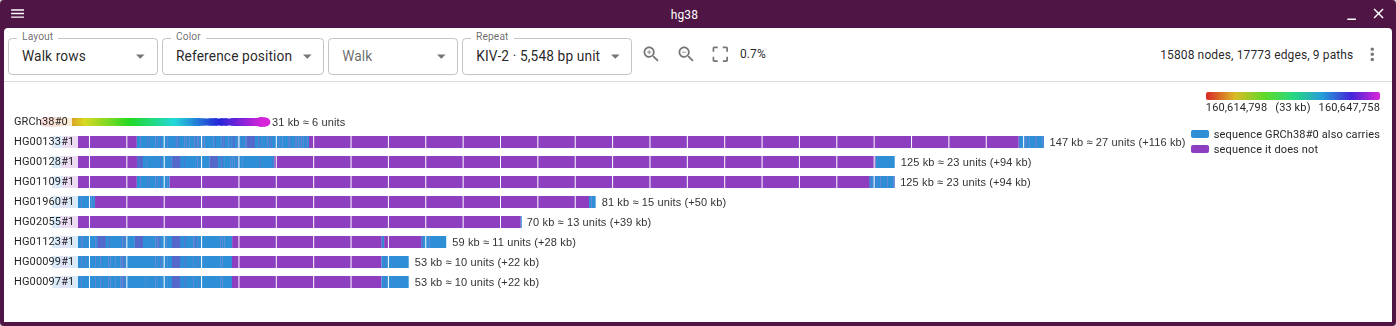
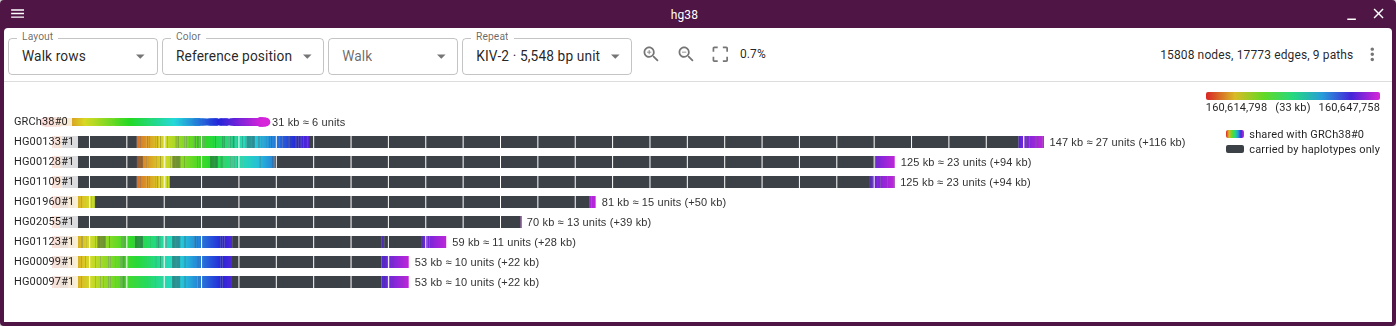
Walk rows follow the reference-position ramp
Under the reference-position scheme, sequence a walk shares with the
reference takes the hue of where it sits there, so each copy of a repeat
unit shows which reference unit it matches, and haplotype-only sequence
takes the canvas's off-reference charcoal. Runs now split where their
reference coordinate jumps, and the legend states what each colour is.

Changed region(s): [[0.0308, 0.3988, 0.7701, 0.8896], [0.8317, 0.3988, 0.9857, 0.4908]]

diff --git a/src/GraphGenomeView/components/WalkRowsOverlay.tsx b/src/GraphGenomeView/components/WalkRowsOverlay.tsx
@@ -1,16 +1,25 @@
+import { useId } from 'react'
+
 import { ROW_HEIGHT_PX } from '@jbrowse/bandage-core/layout/rowSpacing'
 import { LABEL_CHAR_PX } from '@jbrowse/bandage-core/overlayLabels'
+import { REFERENCE_RAMP_ALT_CSS } from '@jbrowse/bandage-core/renderer/GeometryBuilder'
 import { observer } from 'mobx-react'
 
+import { RAMP_GRADIENT_CSS, rampHue, rampHueCss } from './referenceRampCss'
 import { CALL_TOLERANCE } from '../repeats/walkCalls'
 
 import type { GraphPaneModel } from '../model'
+import type { WalkRun } from '@jbrowse/bandage-core/layout/walkRows'
 
 // The walk-rows layout's bars: one per haplotype walk under the reference line
 // the canvas draws, each on its own bp axis from the window's left edge. Blue
-// is sequence the reference walk also carries, purple is sequence it does not,
-// and the readout at the end of a bar is what it carries against the
-// reference, which for a repeat array is the expansion.
+// marks sequence shared with the reference walk and purple sequence only the
+// haplotypes carry. Under the reference-position ramp, shared sequence takes
+// the hue of where it sits on the reference, so each copy of a repeat unit
+// shows which reference unit it matches, and haplotype-only sequence takes the
+// charcoal the canvas gives off-reference nodes. The readout at the end of a
+// bar is what it carries against the reference, which for a repeat array is
+// the expansion.
 //
 // A tick is the genotyped allele length paired with THAT walk, and the walk
 // rows pair them — see repeats/walkCalls.ts, which also holds the threshold
@@ -31,6 +40,8 @@ const UNBACKED_TICK = '#9e9e9e'
 const DISAGREES = '#c62828'
 const OFF_REFERENCE = '#8e3fbf'
 const BAR_PX = 12
+// hue degrees one gradient stop spans, since SVG interpolates stops in RGB
+const HUE_STOP_DEG = 30
 
 const legendBoxStyle = {
   background: 'rgba(255,255,255,0.82)',
@@ -69,16 +80,27 @@ export const WalkRowsLegend = observer(function WalkRowsLegend({
   if (!bars) {
     return null
   }
+  const ramp = model.referenceRampDomain
   const calls = bars.rows.flatMap(row => row.call ?? [])
   return (
     <div style={legendBoxStyle} data-testid="graph-walk-rows-legend">
       <div style={legendRowStyle}>
-        <div style={{ ...swatchStyle, backgroundColor: ON_REFERENCE }} />
-        <span>sequence {bars.reference.label} also carries</span>
+        <div
+          style={{
+            ...swatchStyle,
+            background: ramp ? RAMP_GRADIENT_CSS : ON_REFERENCE,
+          }}
+        />
+        <span>shared with {bars.reference.label}</span>
       </div>
       <div style={legendRowStyle}>
-        <div style={{ ...swatchStyle, backgroundColor: OFF_REFERENCE }} />
-        <span>sequence it does not</span>
+        <div
+          style={{
+            ...swatchStyle,
+            backgroundColor: ramp ? REFERENCE_RAMP_ALT_CSS : OFF_REFERENCE,
+          }}
+        />
+        <span>carried by haplotypes only</span>
       </div>
       {calls.some(call => call.spanningReads !== 0) ? (
         <div style={legendRowStyle}>
@@ -144,12 +166,53 @@ function tileSeparators(bp: number, unit: number, X: (bp: number) => number) {
   return xs
 }
 
+function hueStops(from: number, to: number) {
+  const n = Math.max(1, Math.ceil(Math.abs(to - from) / HUE_STOP_DEG))
+  return Array.from({ length: n + 1 }, (_, i) => from + ((to - from) * i) / n)
+}
+
+// A shared run covers its reference contiguously, so its hue ramps linearly
+// from one end to the other and a gradient paints it exactly.
+function runFill(
+  run: WalkRun,
+  ramp: { start: number; end: number } | undefined,
+  gradientId: string,
+) {
+  if (!ramp) {
+    return { fill: run.onReference ? ON_REFERENCE : OFF_REFERENCE }
+  }
+  if (run.referenceStart === undefined) {
+    return { fill: REFERENCE_RAMP_ALT_CSS }
+  }
+  const from = rampHue(run.referenceStart, ramp)
+  const to = rampHue(run.referenceStart + run.bp, ramp)
+  if (Math.abs(to - from) < 1) {
+    return { fill: rampHueCss((from + to) / 2) }
+  }
+  const stops = hueStops(from, to)
+  return {
+    fill: `url(#${gradientId})`,
+    gradient: (
+      <linearGradient id={gradientId}>
+        {stops.map((hue, i) => (
+          <stop
+            key={i}
+            offset={i / (stops.length - 1)}
+            stopColor={rampHueCss(hue)}
+          />
+        ))}
+      </linearGradient>
+    ),
+  }
+}
+
 const WalkRowsOverlay = observer(function WalkRowsOverlay({
   model,
 }: {
   model: GraphPaneModel
 }) {
-  const { walkRowBars } = model
+  const idPrefix = useId().replace(/[^\w-]/g, '')
+  const { walkRowBars, referenceRampDomain: ramp } = model
   if (!walkRowBars) {
     return null
   }
@@ -210,16 +273,25 @@ const WalkRowsOverlay = observer(function WalkRowsOverlay({
         const { call } = row
         return (
           <g key={row.name} data-testid="graph-walk-row">
-            {row.runs.map(run => (
-              <rect
-                key={run.start}
-                x={X(origin + run.start)}
-                y={y - BAR_PX / 2}
-                width={Math.max(1, run.bp * scaleX)}
-                height={BAR_PX}
-                fill={run.onReference ? ON_REFERENCE : OFF_REFERENCE}
-              />
-            ))}
+            {row.runs.map(run => {
+              const { fill, gradient } = runFill(
+                run,
+                ramp,
+                `${idPrefix}-${i}-${run.start}`,
+              )
+              return (
+                <g key={run.start}>
+                  {gradient}
+                  <rect
+                    x={X(origin + run.start)}
+                    y={y - BAR_PX / 2}
+                    width={Math.max(1, run.bp * scaleX)}
+                    height={BAR_PX}
+                    fill={fill}
+                  />
+                </g>
+              )
+            })}
             {unit
               ? tileSeparators(row.bp, unit, bp => bp * scaleX).map(k => (
                   <line

diff --git a/packages/core/src/layout/walkRows.ts b/packages/core/src/layout/walkRows.ts
@@ -13,13 +13,16 @@ import type { Graph, GraphPath } from '../types'
 // so a copy count is not a visit count; it is the sequence a walk spends
 // between the reference nodes flanking the window, divided by the unit. Runs
 // distinguish sequence the reference walk also carries from sequence it does
-// not, so an expansion is the purple stretch of a row.
+// not, so an expansion is the off-reference stretch of a row.
 
 export interface WalkRun {
   // bp offset from the start of this walk's slice
   start: number
   bp: number
   onReference: boolean
+  // reference bp an on-reference run starts at; the run covers that much
+  // reference contiguously, so a copy of a repeat unit states which unit it is
+  referenceStart?: number
 }
 
 export interface WalkRow {
@@ -106,7 +109,6 @@ export function walkRows(
     return undefined
   }
   const lengthOf = new Map(graph.nodes.map(n => [n.id, n.length]))
-  const onReference = new Set(reference.nodeIds)
   const referenceStart =
     graph.anchorPaths?.find(p => p.name === pathOrigin(reference.name).name)
       ?.start ?? 0
@@ -136,12 +138,16 @@ export function walkRows(
     let offReferenceBp = 0
     for (const id of ids) {
       const len = lengthOf.get(id) ?? 0
-      const shared = onReference.has(id)
+      const referenceStart = span.get(id)?.start
+      const shared = referenceStart !== undefined
       const last = runs.at(-1)
-      if (last?.onReference === shared) {
+      if (
+        last?.onReference === shared &&
+        (!shared || last.referenceStart! + last.bp === referenceStart)
+      ) {
         last.bp += len
       } else {
-        runs.push({ start: bp, bp: len, onReference: shared })
+        runs.push({ start: bp, bp: len, onReference: shared, referenceStart })
       }
       bp += len
       if (!shared) {

diff --git a/src/GraphGenomeView/components/GraphCanvas.tsx b/src/GraphGenomeView/components/GraphCanvas.tsx
@@ -2,7 +2,6 @@ import { useEffect, useRef, useState } from 'react'
 
 import { formatBp } from '@jbrowse/bandage-core/graphLabels'
 import { LEGEND_INSET_PX } from '@jbrowse/bandage-core/labelLayout'
-import { REFERENCE_RAMP_MAX_HUE } from '@jbrowse/bandage-core/renderer/GeometryBuilder'
 import {
   findHoveredEdge,
   findHoveredNode,
@@ -21,6 +20,7 @@ import GraphToolbar from './GraphToolbar'
 import LabelLayer from './LabelLayer'
 import TubeMapOverlay from './TubeMapOverlay'
 import WalkRowsOverlay, { WalkRowsLegend } from './WalkRowsOverlay'
+import { RAMP_GRADIENT_CSS } from './referenceRampCss'
 import { locLabel, nodeOwnLocation } from '../../launchFromGraph/contributors'
 import { nodeLaunchMenuItems } from '../../launchFromGraph/graphMenuItems'
 import { createGraphRenderer } from '../renderer/GraphRenderer'
@@ -203,19 +203,11 @@ const WalkReadout = observer(function WalkReadout({
 // over. Nothing on screen used to say that red-to-magenta means left-to-right of
 // the cut window, so two tutorials carried that sentence in prose and a reader
 // arriving at a figure had no way to know it at all.
-//
-// The gradient is built from the same three numbers `getNodeColor` paints with
-// (hue 0 to REFERENCE_RAMP_MAX_HUE at 70%/50%), rather than from a picked pair
-// of hex stops, so it cannot come to describe a ramp the drawing stopped using.
 const rampStripStyle = {
   minWidth: 90,
   height: 8,
   borderRadius: 2,
-  background: `linear-gradient(to right, ${Array.from(
-    { length: 7 },
-    (_, i) =>
-      `hsl(${(i / 6) * REFERENCE_RAMP_MAX_HUE}, 70%, 50%) ${(i / 6) * 100}%`,
-  ).join(', ')})`,
+  background: RAMP_GRADIENT_CSS,
 }
 
 const rampEndsStyle = {

diff --git a/packages/core/src/layout/walkRows.test.ts b/packages/core/src/layout/walkRows.test.ts
@@ -39,18 +39,35 @@ test('one row per non-reference path, longest first, bp summed over its nodes', 
   expect(result.reference.offReferenceBp).toBe(0)
 })
 
-test('runs alternate and cover the row without gaps', () => {
+test('runs cover the row without gaps, splitting shared sequence where its reference jumps', () => {
   const { rows } = walkRows(pggbGraph())!
   for (const row of rows) {
     let pos = 0
     row.runs.forEach((run, i) => {
       expect(run.start).toBe(pos)
-      if (i > 0) {
-        expect(run.onReference).not.toBe(row.runs[i - 1]!.onReference)
+      const prev = row.runs[i - 1]
+      if (prev?.onReference && run.onReference) {
+        expect(run.referenceStart).not.toBe(prev.referenceStart! + prev.bp)
+      } else if (prev) {
+        expect(run.onReference).not.toBe(prev.onReference)
       }
+      expect(run.referenceStart !== undefined).toBe(run.onReference)
       pos += run.bp
     })
   }
+})
+
+test('the reference row is one run spanning its own coordinates', () => {
+  const graph = pggbGraph()
+  const { reference, origin } = walkRows(graph)!
+  expect(reference.runs).toEqual([
+    {
+      start: 0,
+      bp: reference.bp,
+      onReference: true,
+      referenceStart: origin,
+    },
+  ])
 })
 
 test('a region measures between its flanking reference nodes', () => {

diff --git a/src/GraphGenomeView/components/referenceRampCss.ts b/src/GraphGenomeView/components/referenceRampCss.ts
@@ -1,0 +1,19 @@
+import { REFERENCE_RAMP_MAX_HUE } from '@jbrowse/bandage-core/renderer/GeometryBuilder'
+
+// The reference-position ramp in CSS, from the same three numbers
+// `getNodeColor` paints with (hue 0 to REFERENCE_RAMP_MAX_HUE at 70%/50%), so
+// a key or an overlay cannot come to describe a ramp the canvas stopped using.
+
+export function rampHueCss(hue: number) {
+  return `hsl(${hue}, 70%, 50%)`
+}
+
+export function rampHue(bp: number, domain: { start: number; end: number }) {
+  const frac = (bp - domain.start) / (domain.end - domain.start)
+  return Math.max(0, Math.min(1, frac)) * REFERENCE_RAMP_MAX_HUE
+}
+
+export const RAMP_GRADIENT_CSS = `linear-gradient(to right, ${Array.from(
+  { length: 7 },
+  (_, i) => `${rampHueCss((i / 6) * REFERENCE_RAMP_MAX_HUE)} ${(i / 6) * 100}%`,
+).join(', ')})`

diff --git a/packages/core/src/renderer/GeometryBuilder.ts b/packages/core/src/renderer/GeometryBuilder.ts
@@ -503,7 +503,9 @@ const REFERENCE_RAMP_LIGHTNESS = 0.5
 //
 // Distinct from the light grey a node with no reference coordinates at all gets:
 // this one is anchored and off-reference, that one is unplaceable.
-const REFERENCE_RAMP_ALT_COLOR = packAbgr(60, 65, 72, 255)
+const REFERENCE_RAMP_ALT_RGB = [60, 65, 72] as const
+const REFERENCE_RAMP_ALT_COLOR = packAbgr(...REFERENCE_RAMP_ALT_RGB, 255)
+export const REFERENCE_RAMP_ALT_CSS = `rgb(${REFERENCE_RAMP_ALT_RGB.join(', ')})`
 
 export interface ReferenceRamp {
   start: number

diff --git a/docs/layouts.md b/docs/layouts.md
@@ -13,10 +13,11 @@ The plugin ships eight layouts:
 - **Anchored**: x is reference bp, one row per stable rank, aligned under a
   linear view.
 - **Sample rows**: x is reference bp, one row per contributing assembly.
-- **Walk rows**: x is each walk's own bp, one bar per haplotype. Blue marks
-  sequence the reference shares and purple sequence it lacks, so a repeat
-  expansion reads as bar length. The Repeat picker tiles the bars by a repeat
-  annotation's unit and marks the allele a genotyper called.
+- **Walk rows**: x is each walk's own bp, one bar per haplotype, so a repeat
+  expansion reads as bar length. Sequence shared with the reference takes its
+  reference-position hue and haplotype-only sequence is charcoal; under other
+  colour schemes they are blue and purple. The Repeat picker tiles the bars by a
+  repeat annotation's unit and marks the allele a genotyper called.
 - **Tube map**: [sequenceTubeMap](https://github.com/vgteam/sequenceTubeMap)'s
   drawing, every path a coloured tube through boxed nodes, with columns in node
   order and node widths log-scaled.
